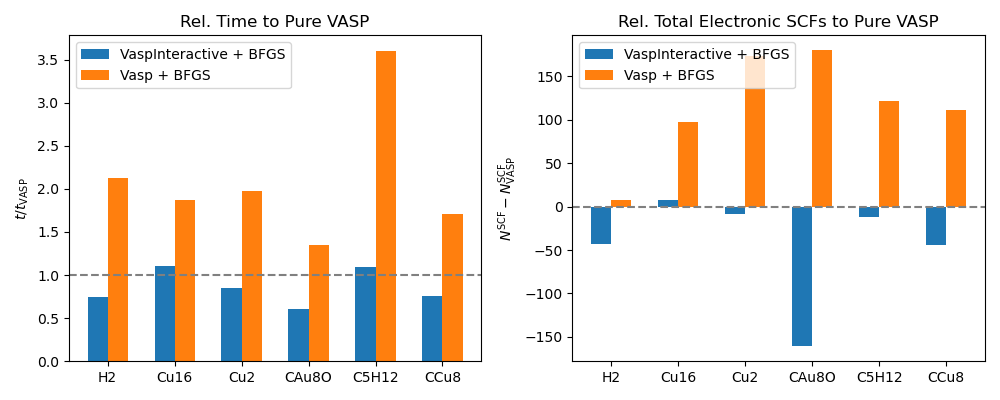
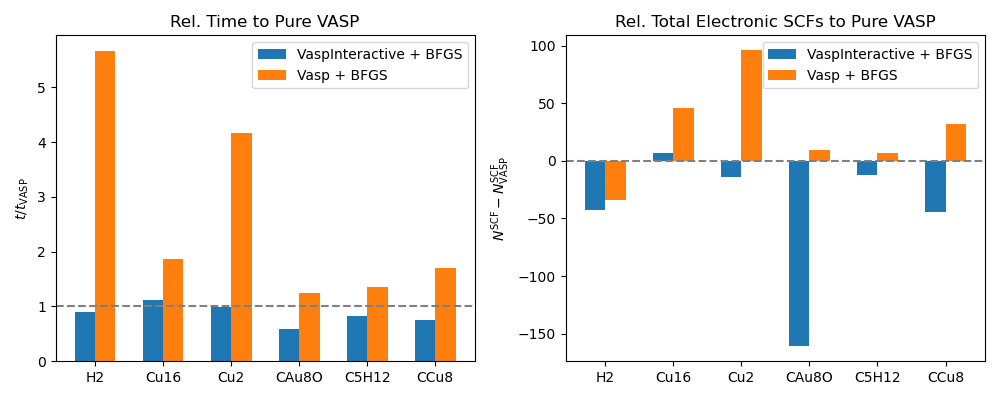
update ex06 to use wf cache for vasp+bfgs

diff --git a/examples/ex06_benchmark.py b/examples/ex06_benchmark.py
@@ -55,7 +55,7 @@ def relax_vasp_bfgs(atoms):
     """Classic vasp + bfgs, no wave function reloading"""
     atoms = atoms.copy()
     with tempfile.TemporaryDirectory() as tmpdir:
-        params = dict(istart=0, ibrion=-1, nsw=0, directory=tmpdir)
+        params = dict(ibrion=-1, nsw=0, directory=tmpdir)
         params.update(default_params)
         calc = Vasp(**params)
         atoms.calc = calc
@@ -194,7 +194,7 @@ def plot_details(results):
     }
     for met in ("vasp-inter", "vasp-bfgs", "vasp"):
         steps = results[name][met][2]
-        ax.plot(steps, "-", label=disp_name[met])
+        ax.step(range(1, len(steps) + 1), steps, label=disp_name[met])
     ax.legend()
     ax.set_xlabel("Ionic steps")
     ax.set_ylabel("Electronic SCF per Ionic Cycle")
